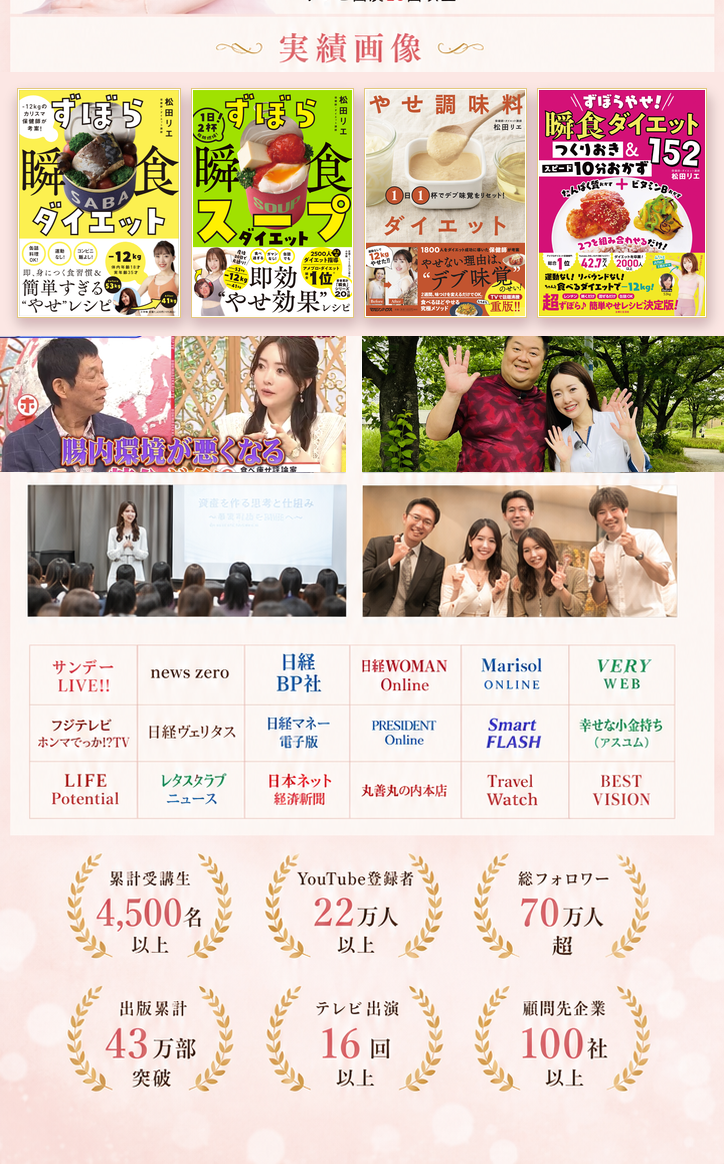
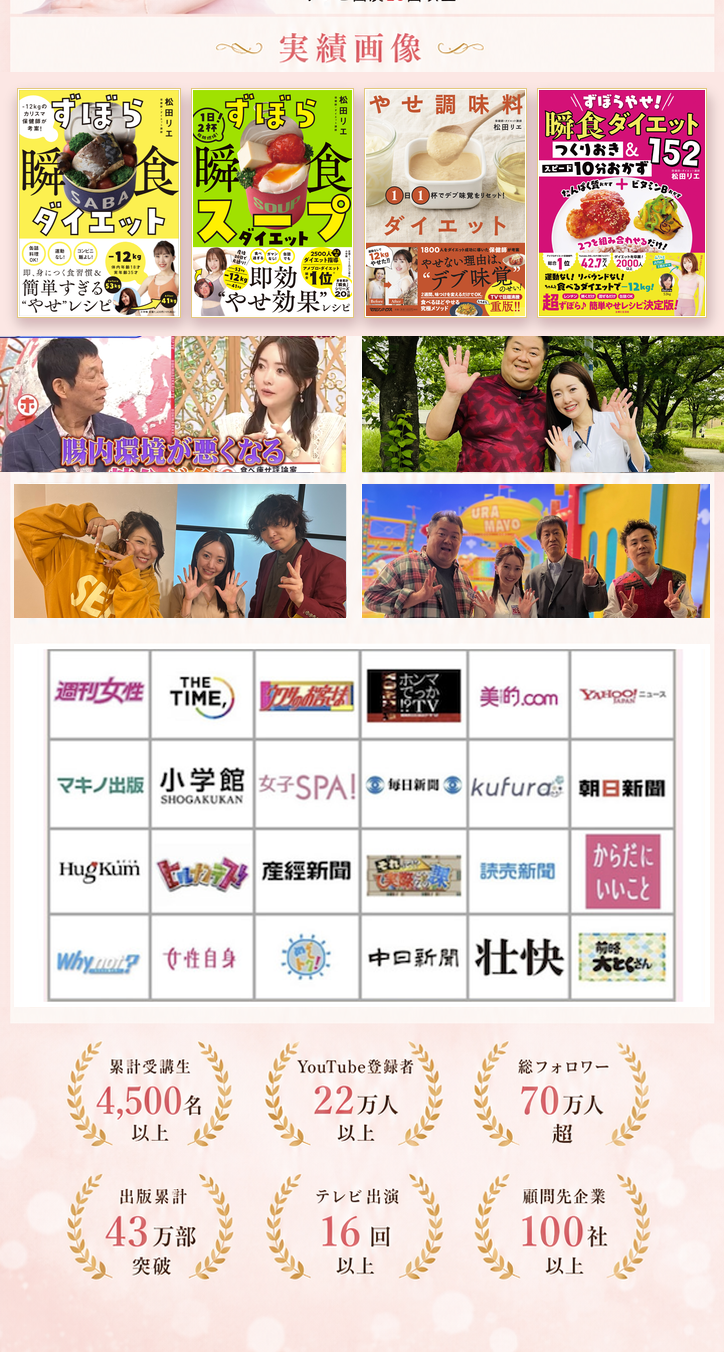
実績画像刷新：AIフリー画像2枚を実際のTV出演写真(IMG_7973/IMG_4574)に差し替え／媒体テキスト表を雑誌ロゴ一覧(24誌)に差し替え

diff --git a/index.html b/index.html
@@ -940,7 +940,7 @@ footer .f-copy{margin-top:14px;font-size:12px;opacity:.95;}
   <!-- ============ 7. 監修者セクション ============ -->
   <section class="kanshu">
     <img class="profile-img" src="images/profile-top.png?v=2" alt="年商1億を資産10億へ。3児のママ経営者が実践する女性起業家の資産形成術。女性起業家 松田リエ監修。年商10億・資産20億超、40室以上の不動産を保有、M&Aも経験した3児のママ経営者・松田リエが監修。累計受講生4,500名以上／YouTube登録者22万人・総フォロワー70万人超／出版17冊・累計43万部突破／テレビ出演16回以上" width="1012" height="1554">
-    <img class="profile-img" src="images/jisseki.png?v=3" alt="実績画像・メディア掲載多数。累計受講生4,500名以上／YouTube総登録者22万人以上／総フォロワー70万人突破／累計43万部突破／メディア出演16回以上" width="724" height="1164">
+    <img class="profile-img" src="images/jisseki.png?v=4" alt="実績画像・メディア掲載多数。テレビ出演写真／週刊女性・THE TIME,・美的.com・Yahoo!ニュース・小学館・女子SPA!・毎日新聞・朝日新聞・産経新聞・読売新聞・中日新聞・壮快ほか雑誌掲載多数。累計受講生4,500名以上／YouTube総登録者22万人以上／総フォロワー70万人突破／累計43万部突破／テレビ出演16回以上" width="724" height="1352">
   </section>
 
   <!-- ============ 9-10. ビジョン〜ラスト（画像） ============ -->
